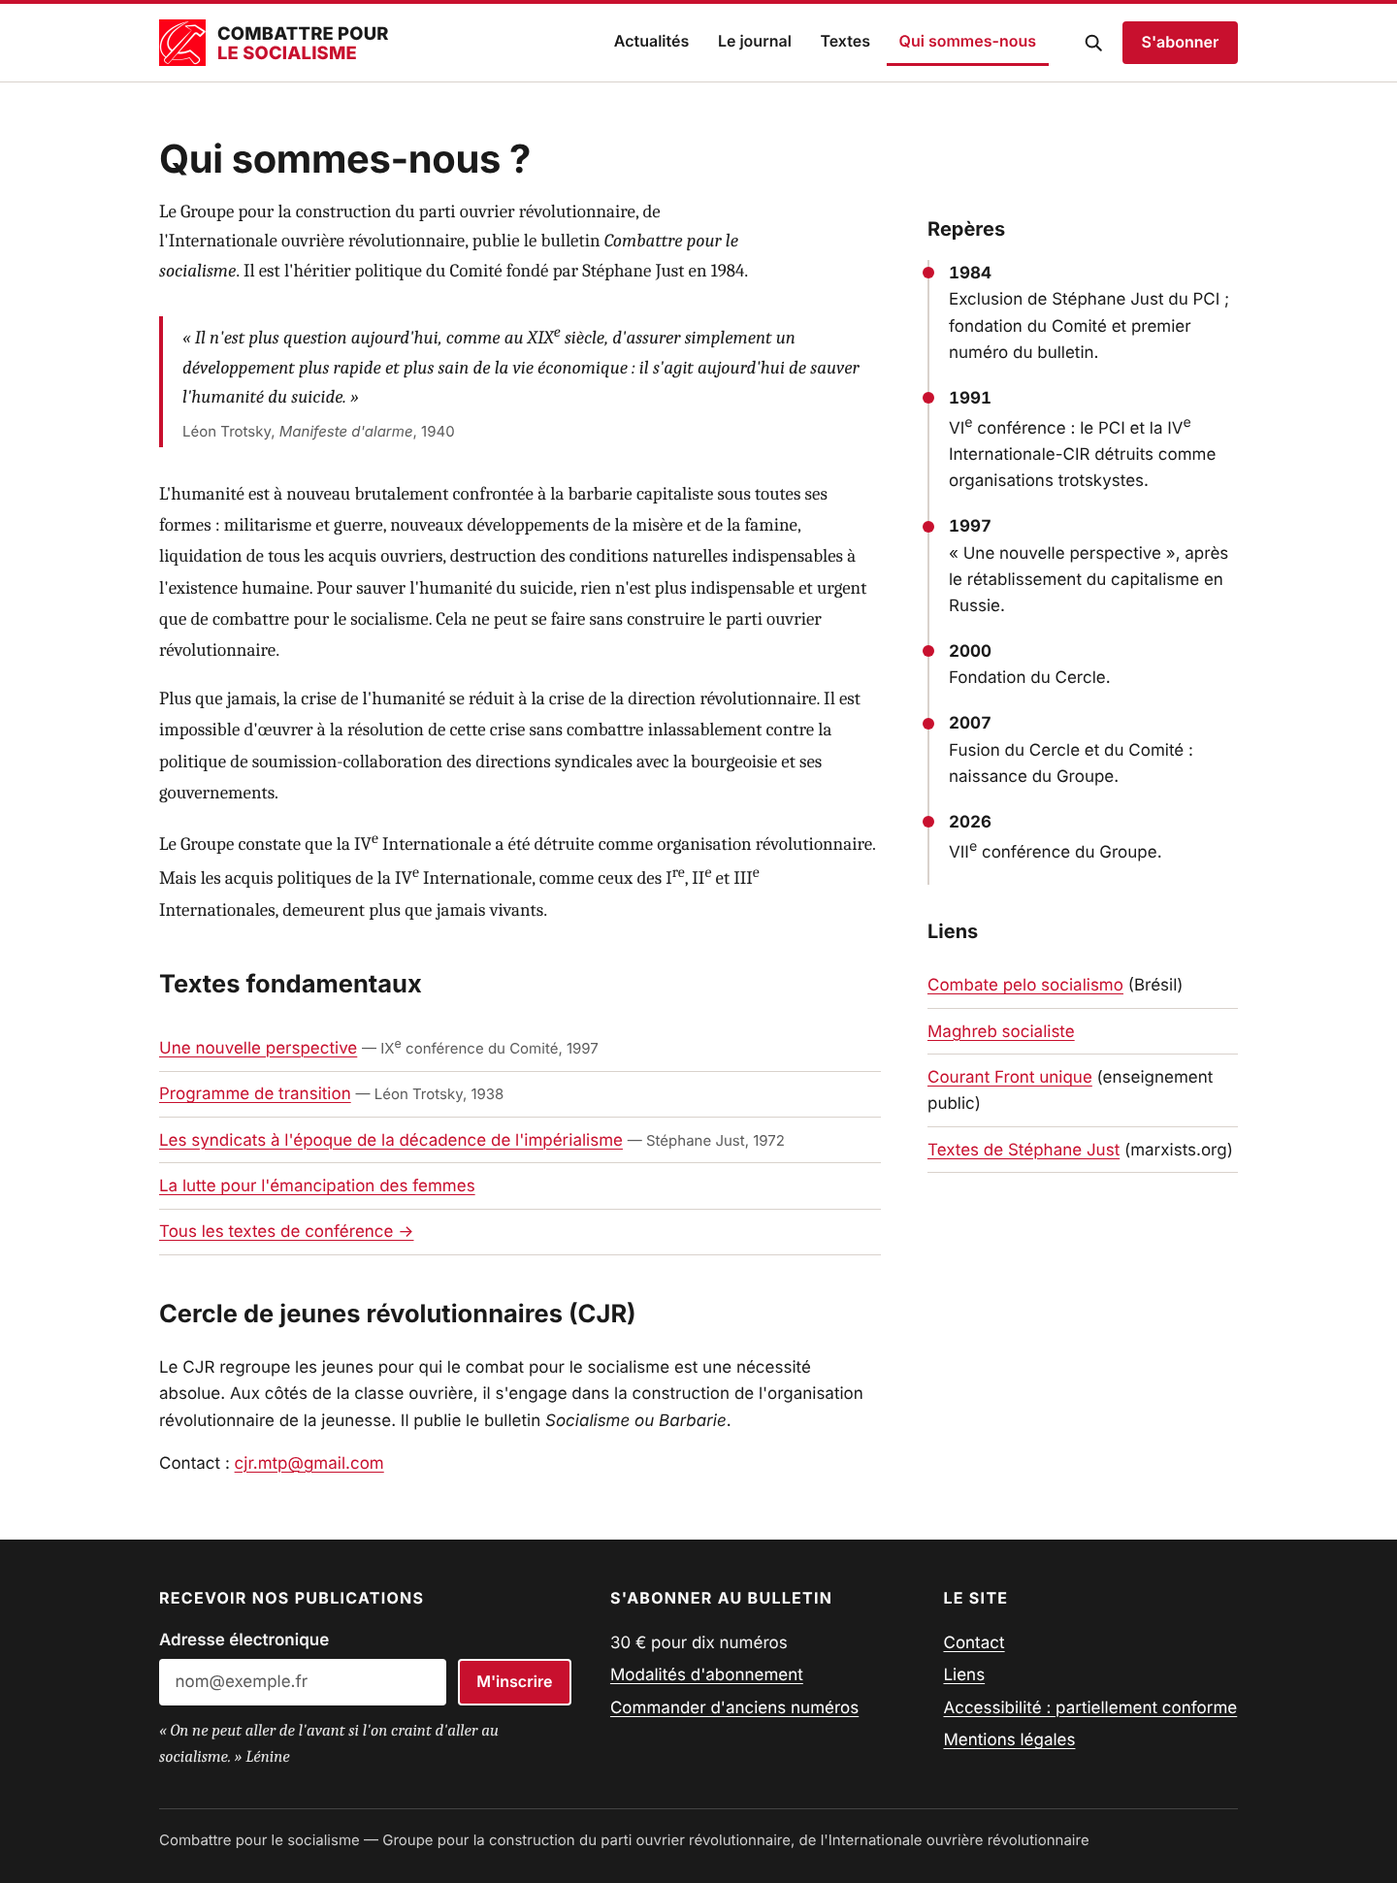
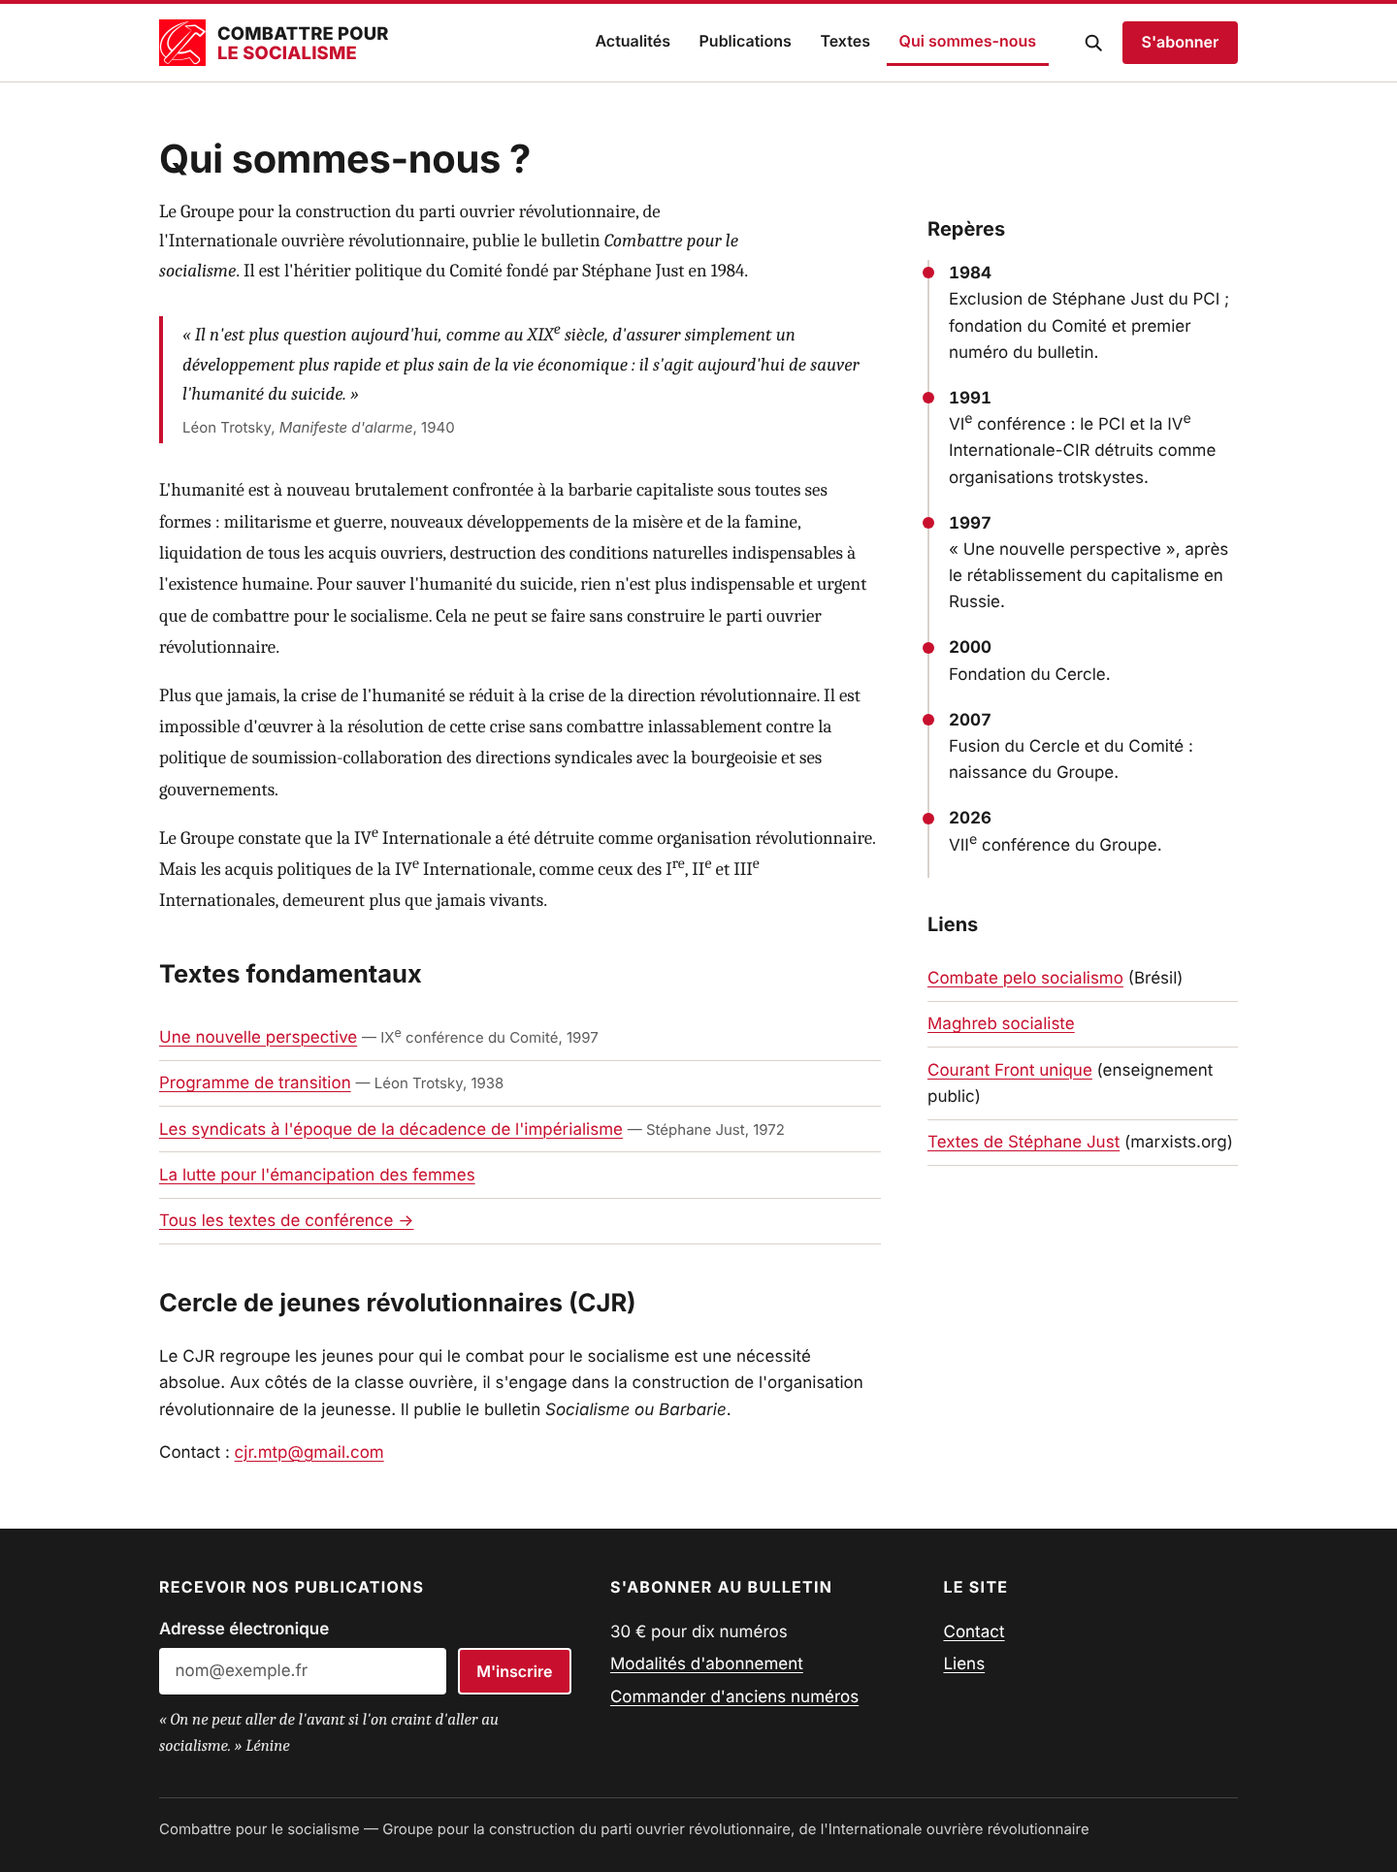
Maquette : onglet Publications, filtres thématiques en liens, sans fil d'Ariane
Retire aussi les liens Accessibilité et Mentions légales du pied de page.

Claude-Session: https://claude.ai/code/session_01JsBTsK6xjiaPPHPMJ6fHq2

diff --git a/maquette/recherche.html b/maquette/recherche.html
@@ -18,7 +18,7 @@
       <nav class="nav-principale" id="nav-principale" aria-label="Navigation principale">
         <ul>
           <li><a href="index.html">Actualités</a></li>
-          <li><a href="journal.html">Le journal</a></li>
+          <li><a href="publications.html">Publications</a></li>
           <li><a href="recherche.html" aria-current="page">Textes</a></li>
           <li><a href="qui-sommes-nous.html">Qui sommes-nous</a></li>
           <li class="abonnement-mobile"><a class="bouton" href="abonnement.html">S'abonner</a></li>
@@ -39,7 +39,6 @@
 
   <main id="contenu" class="section">
     <div class="conteneur">
-      <nav aria-label="Fil d'Ariane" class="meta"><a href="index.html">Accueil</a> › Textes et archives</nav>
       <h1 style="font-size:2rem;line-height:1.2;margin:.5rem 0 1.25rem">Textes et archives</h1>
 
       <form class="recherche-bloc" role="search" action="recherche.html">
@@ -51,45 +50,45 @@
 
       <div class="mise-en-page-recherche" style="margin-top:2rem">
         <!-- FILTRES : de vrais champs de formulaire, regroupés et légendés -->
-        <form class="filtres" aria-label="Affiner les résultats">
-          <h2 class="visuellement-cache">Filtres</h2>
-          <fieldset>
-            <legend>Type de texte</legend>
-            <label class="option"><input type="checkbox" name="type" value="supplement"> Supplément, tract <span class="nombre">13</span></label>
-            <label class="option"><input type="checkbox" name="type" value="editorial"> Éditorial <span class="nombre">10</span></label>
-            <label class="option"><input type="checkbox" name="type" value="declaration"> Déclaration <span class="nombre">4</span></label>
-            <label class="option"><input type="checkbox" name="type" value="militants"> Les militants interviennent <span class="nombre">3</span></label>
-          </fieldset>
-          <fieldset>
-            <legend>Secteur</legend>
-            <label class="option"><input type="checkbox" name="secteur"> Enseignement public <span class="nombre">4</span></label>
-            <label class="option"><input type="checkbox" name="secteur"> RATP <span class="nombre">3</span></label>
-            <label class="option"><input type="checkbox" name="secteur"> SNCF <span class="nombre">2</span></label>
-          </fieldset>
-          <fieldset>
-            <legend>Organisation citée</legend>
-            <label class="option"><input type="checkbox" name="org"> FSU <span class="nombre">3</span></label>
-            <label class="option"><input type="checkbox" name="org"> CGT <span class="nombre">3</span></label>
-            <label class="option"><input type="checkbox" name="org"> Force ouvrière <span class="nombre">2</span></label>
-          </fieldset>
-          <fieldset>
-            <legend>Période</legend>
-            <div class="periode">
-              <div><label for="de" class="meta" style="display:block">De</label><input class="champ" id="de" type="number" inputmode="numeric" min="1984" max="2026" value="1984"></div>
-              <div><label for="a" class="meta" style="display:block">À</label><input class="champ" id="a" type="number" inputmode="numeric" min="1984" max="2026" value="2026"></div>
-            </div>
-          </fieldset>
-          <fieldset>
-            <legend>Numéro du bulletin</legend>
-            <label for="num" class="visuellement-cache">Numéro du bulletin</label>
-            <select class="champ" id="num"><option>Tous les numéros</option><option>N° 98 (nouvelle série)</option><option>N° 87 (nouvelle série)</option><option>N° 86 (nouvelle série)</option></select>
-          </fieldset>
-          <button class="bouton" type="submit" style="width:100%">Appliquer les filtres</button>
-        </form>
+        <nav class="filtres" aria-label="Affiner les résultats">
+          <h3 class="filtre-titre" id="f-themes">Thèmes</h3>
+          <ul class="liens-filtres" aria-labelledby="f-themes">
+              <li><a href="recherche.html" aria-current="true">Retraites <span class="nombre">36</span><span class="retirer" aria-hidden="true">×</span><span class="visuellement-cache"> (filtre actif, cliquer pour le retirer)</span></a></li>
+              <li><a href="recherche.html">Budget <span class="nombre">35</span></a></li>
+              <li><a href="recherche.html">Enseignement public <span class="nombre">220</span></a></li>
+              <li><a href="recherche.html">Sécurité sociale <span class="nombre">24</span></a></li>
+              <li><a href="recherche.html">Fonction publique <span class="nombre">19</span></a></li>
+              <li><a href="recherche.html">Syndicats et dialogue social <span class="nombre">18</span></a></li>
+              <li><a href="recherche.html">Libertés démocratiques <span class="nombre">16</span></a></li>
+              <li><a href="recherche.html">Guerre impérialiste <span class="nombre">19</span></a></li>
+              <li><a href="recherche.html">Crise du capitalisme <span class="nombre">22</span></a></li>
+          </ul>
+          <p style="margin:.25rem 0 0"><a href="recherche.html">Tous les thèmes →</a></p>
+          <h3 class="filtre-titre" id="f-type">Type de texte</h3>
+          <ul class="liens-filtres" aria-labelledby="f-type">
+              <li><a href="recherche.html">Supplément, tract <span class="nombre">13</span></a></li>
+              <li><a href="recherche.html">Éditorial <span class="nombre">10</span></a></li>
+              <li><a href="recherche.html">Déclaration <span class="nombre">4</span></a></li>
+              <li><a href="recherche.html">Les militants interviennent <span class="nombre">3</span></a></li>
+          </ul>
+          <h3 class="filtre-titre" id="f-org">Organisation citée</h3>
+          <ul class="liens-filtres" aria-labelledby="f-org">
+              <li><a href="recherche.html">FSU <span class="nombre">3</span></a></li>
+              <li><a href="recherche.html">CGT <span class="nombre">3</span></a></li>
+              <li><a href="recherche.html">Force ouvrière <span class="nombre">2</span></a></li>
+          </ul>
+          <h3 class="filtre-titre" id="f-periode">Période</h3>
+          <ul class="liens-filtres" aria-labelledby="f-periode">
+              <li><a href="recherche.html">2020 – 2026 <span class="nombre">12</span></a></li>
+              <li><a href="recherche.html">2010 – 2019 <span class="nombre">5</span></a></li>
+              <li><a href="recherche.html">2000 – 2009 <span class="nombre">13</span></a></li>
+              <li><a href="recherche.html">1984 – 1999 <span class="nombre">6</span></a></li>
+          </ul>
+        </nav>
 
         <div>
           <ul class="filtres-actifs" aria-label="Filtres actifs">
-            <li><button type="button">Thème : Retraites <span aria-hidden="true">×</span><span class="visuellement-cache">(retirer ce filtre)</span></button></li>
+            <li><a href="recherche.html">Thème : Retraites <span aria-hidden="true">×</span><span class="visuellement-cache">(retirer ce filtre)</span></a></li>
           </ul>
           <div class="resultats-entete">
             <p role="status" style="margin:0"><strong>36 textes</strong> pour « retraites »</p>
@@ -151,7 +150,7 @@
     <div class="conteneur">
       <div class="pied-bas" style="border:0;margin:0;padding:0">
         <span>Combattre pour le socialisme</span>
-        <a href="abonnement.html#contact">Contact</a><a href="accessibilite.html">Accessibilité : partiellement conforme</a><a href="#">Mentions légales</a>
+        <a href="abonnement.html#contact">Contact</a>
       </div>
     </div>
   </footer>

diff --git a/maquette/publications.html b/maquette/publications.html
@@ -3,7 +3,7 @@
 <head>
   <meta charset="utf-8">
   <meta name="viewport" content="width=device-width, initial-scale=1">
-  <title>Le journal — Combattre pour le socialisme</title>
+  <title>Publications — Combattre pour le socialisme</title>
   <meta name="description" content="Tous les numéros du bulletin Combattre pour le socialisme depuis 1984.">
   <link rel="stylesheet" href="styles.css">
 </head>
@@ -18,7 +18,7 @@
       <nav class="nav-principale" id="nav-principale" aria-label="Navigation principale">
         <ul>
           <li><a href="index.html">Actualités</a></li>
-          <li><a href="journal.html" aria-current="page">Le journal</a></li>
+          <li><a href="publications.html" aria-current="page">Publications</a></li>
           <li><a href="recherche.html">Textes</a></li>
           <li><a href="qui-sommes-nous.html">Qui sommes-nous</a></li>
           <li class="abonnement-mobile"><a class="bouton" href="abonnement.html">S'abonner</a></li>
@@ -40,8 +40,8 @@
   <main id="contenu">
     <div class="section">
       <div class="conteneur">
-        <h1 class="titre-page">Le journal <cite>Combattre pour le socialisme</cite></h1>
-        <p class="intro">Le bulletin du Groupe paraît depuis octobre 1984 ; la nouvelle série en est à son 98<sup>e</sup> numéro. Chaque numéro est consultable en ligne et téléchargeable en PDF.</p>
+        <h1 class="titre-page">Publications</h1>
+        <p class="intro">Le bulletin <cite>Combattre pour le socialisme</cite> paraît depuis octobre 1984 ; la nouvelle série en est à son 98<sup>e</sup> numéro. Chaque numéro est consultable en ligne et téléchargeable en PDF.</p>
         <nav aria-label="Années">
           <ul class="annees">
             <li><a href="#" aria-current="true">2026</a></li><li><a href="#">2025</a></li><li><a href="#">2024</a></li><li><a href="#">2023</a></li><li><a href="#">2022</a></li><li><a href="#">2010–2021</a></li><li><a href="#">2000–2009</a></li><li><a href="#">1984–1999</a></li>
@@ -127,8 +127,6 @@
           <ul>
             <li><a href="abonnement.html#contact">Contact</a></li>
             <li><a href="qui-sommes-nous.html#liens">Liens</a></li>
-            <li><a href="accessibilite.html">Accessibilité : partiellement conforme</a></li>
-            <li><a href="#">Mentions légales</a></li>
           </ul>
         </div>
       </div>

diff --git a/maquette/article.html b/maquette/article.html
@@ -18,7 +18,7 @@
       <nav class="nav-principale" id="nav-principale" aria-label="Navigation principale">
         <ul>
           <li><a href="index.html">Actualités</a></li>
-          <li><a href="journal.html">Le journal</a></li>
+          <li><a href="publications.html">Publications</a></li>
           <li><a href="recherche.html">Textes</a></li>
           <li><a href="qui-sommes-nous.html">Qui sommes-nous</a></li>
           <li class="abonnement-mobile"><a class="bouton" href="abonnement.html">S'abonner</a></li>
@@ -40,9 +40,8 @@
   <main id="contenu">
     <article class="section">
       <div class="conteneur article">
-        <nav aria-label="Fil d'Ariane" class="meta"><a href="index.html">Accueil</a> › <a href="recherche.html">Textes</a> › Supplément au n° 98</nav>
         <header class="article-entete">
-          <p class="surtitre" style="margin-top:1rem">Supplément au n° 98 · Déclaration · <time datetime="2026-11-01">1<sup>er</sup> novembre 2026</time></p>
+          <p class="surtitre">Supplément au n° 98 · Déclaration · <time datetime="2026-11-01">1<sup>er</sup> novembre 2026</time></p>
           <h1 class="titre-page">Pour défaire le gouvernement Macron-Lecornu-Nuñez : manifestation centrale à l'Assemblée nationale</h1>
           <p class="meta" style="margin:0">Sur les mots d'ordre :</p>
           <ul class="mots-ordre">
@@ -121,8 +120,6 @@
           <ul>
             <li><a href="abonnement.html#contact">Contact</a></li>
             <li><a href="qui-sommes-nous.html#liens">Liens</a></li>
-            <li><a href="accessibilite.html">Accessibilité : partiellement conforme</a></li>
-            <li><a href="#">Mentions légales</a></li>
           </ul>
         </div>
       </div>

diff --git a/maquette/styles.css b/maquette/styles.css
@@ -364,3 +364,27 @@ mark { background: #FFE8A3; color: var(--encre); padding: 0 .1em; } /* 17:1 avec
 }
 sup { line-height: 0; }
 .annees a { padding: 0 .75rem; }
+
+/* Filtres sous forme de liens (un clic = un filtre, re-clic = retrait) */
+.filtre-titre { font-size: 1rem; margin: 1.5rem 0 .5rem; padding-top: 1rem; border-top: 1px solid var(--filet); }
+.filtres .filtre-titre:first-child { margin-top: 0; }
+.liens-filtres { list-style: none; padding: 0; margin: 0; }
+.liens-filtres a {
+  display: flex; align-items: center; gap: .5rem; min-height: 40px; padding: .35rem .6rem; margin: 0 -.6rem;
+  border-radius: var(--rayon); color: var(--encre); text-decoration: none;
+}
+.liens-filtres a:hover { background: var(--fond-doux); color: var(--rouge); text-decoration: underline; }
+.liens-filtres .nombre { margin-left: auto; color: var(--gris); font-size: .9375rem; font-variant-numeric: tabular-nums; }
+.liens-filtres a[aria-current="true"] { background: var(--rouge); color: var(--blanc); font-weight: 700; }
+.liens-filtres a[aria-current="true"] .nombre { color: var(--blanc); }
+.liens-filtres .retirer { font-weight: 700; }
+.filtres-actifs a {
+  display: inline-flex; align-items: center; gap: .4rem; min-height: 36px; padding: .25rem .75rem;
+  font: 600 .9375rem var(--sans); color: var(--blanc); background: var(--encre); border-radius: 999px; text-decoration: none;
+}
+.filtres-actifs a:hover { background: var(--rouge); color: var(--blanc); }
+@media (max-width: 960px) {
+  .liens-filtres { display: flex; flex-wrap: wrap; gap: .4rem; }
+  .liens-filtres a { margin: 0; border: 1px solid var(--filet); border-radius: 999px; min-height: 36px; padding: .25rem .75rem; }
+  .liens-filtres .nombre { margin-left: .25rem; }
+}

diff --git a/maquette/index.html b/maquette/index.html
@@ -20,7 +20,7 @@
       <nav class="nav-principale" id="nav-principale" aria-label="Navigation principale">
         <ul>
           <li><a href="index.html" aria-current="page">Actualités</a></li>
-          <li><a href="journal.html">Le journal</a></li>
+          <li><a href="publications.html">Publications</a></li>
           <li><a href="recherche.html">Textes</a></li>
           <li><a href="qui-sommes-nous.html">Qui sommes-nous</a></li>
           <li class="abonnement-mobile"><a class="bouton" href="abonnement.html">S'abonner</a></li>
@@ -65,7 +65,7 @@
     <!-- DERNIER NUMÉRO -->
     <section class="section section--douce" id="journal" aria-labelledby="numero-titre">
       <div class="conteneur">
-        <h2 class="titre-section" id="numero-titre">Le dernier numéro <a href="journal.html">Tous les numéros depuis 1984</a></h2>
+        <h2 class="titre-section" id="numero-titre">Le dernier numéro <a href="publications.html">Tous les numéros depuis 1984</a></h2>
         <div class="numero">
           <div class="couverture" aria-hidden="true">
             <div class="couverture-bandeau">Combattre pour le socialisme</div>
@@ -208,9 +208,7 @@
           <h2>Le site</h2>
           <ul>
             <li><a href="abonnement.html#contact">Contact</a></li>
-            <li><a href="#">Liens</a></li>
-            <li><a href="accessibilite.html">Accessibilité : partiellement conforme</a></li>
-            <li><a href="#">Mentions légales</a></li>
+            <li><a href="qui-sommes-nous.html#liens">Liens</a></li>
           </ul>
         </div>
       </div>

diff --git a/maquette/qui-sommes-nous.html b/maquette/qui-sommes-nous.html
@@ -18,7 +18,7 @@
       <nav class="nav-principale" id="nav-principale" aria-label="Navigation principale">
         <ul>
           <li><a href="index.html">Actualités</a></li>
-          <li><a href="journal.html">Le journal</a></li>
+          <li><a href="publications.html">Publications</a></li>
           <li><a href="recherche.html">Textes</a></li>
           <li><a href="qui-sommes-nous.html" aria-current="page">Qui sommes-nous</a></li>
           <li class="abonnement-mobile"><a class="bouton" href="abonnement.html">S'abonner</a></li>
@@ -118,8 +118,6 @@
           <ul>
             <li><a href="abonnement.html#contact">Contact</a></li>
             <li><a href="qui-sommes-nous.html#liens">Liens</a></li>
-            <li><a href="accessibilite.html">Accessibilité : partiellement conforme</a></li>
-            <li><a href="#">Mentions légales</a></li>
           </ul>
         </div>
       </div>

diff --git a/maquette/abonnement.html b/maquette/abonnement.html
@@ -18,7 +18,7 @@
       <nav class="nav-principale" id="nav-principale" aria-label="Navigation principale">
         <ul>
           <li><a href="index.html">Actualités</a></li>
-          <li><a href="journal.html">Le journal</a></li>
+          <li><a href="publications.html">Publications</a></li>
           <li><a href="recherche.html">Textes</a></li>
           <li><a href="qui-sommes-nous.html">Qui sommes-nous</a></li>
           <li class="abonnement-mobile"><a class="bouton" href="abonnement.html">S'abonner</a></li>
@@ -100,8 +100,6 @@
           <ul>
             <li><a href="abonnement.html#contact">Contact</a></li>
             <li><a href="qui-sommes-nous.html#liens">Liens</a></li>
-            <li><a href="accessibilite.html">Accessibilité : partiellement conforme</a></li>
-            <li><a href="#">Mentions légales</a></li>
           </ul>
         </div>
       </div>

diff --git a/PROPOSITIONS-DESIGN.md b/PROPOSITIONS-DESIGN.md
@@ -110,7 +110,7 @@ La page Bulletins actuelle a déjà des filtres (Thème, Organisation, Lieu, Nat
 | Onglet | Contient | Remplace |
 |---|---|---|
 | **Actualités** | Accueil : à la une, dernier numéro, prises de position | « Actualité » |
-| **Le journal** | Tous les numéros de CPS (couverture, sommaire, PDF), par année | « Bulletins » et « Publications » |
+| **Publications** | Tous les numéros de CPS (couverture, sommaire, PDF), par année | « Bulletins » et « Publications » |
 | **Textes** | Recherche dans les archives + textes fondamentaux + pages par thème | « Textes fondamentaux », « Publications », index |
 | **Qui sommes-nous** | Présentation, histoire, conférences, CJR, liens | « Qui sommes-nous ? » et « Liens » |
 | Bouton **S'abonner** | Abonnement, liste de diffusion, contact | « Abonnements et contacts » |
